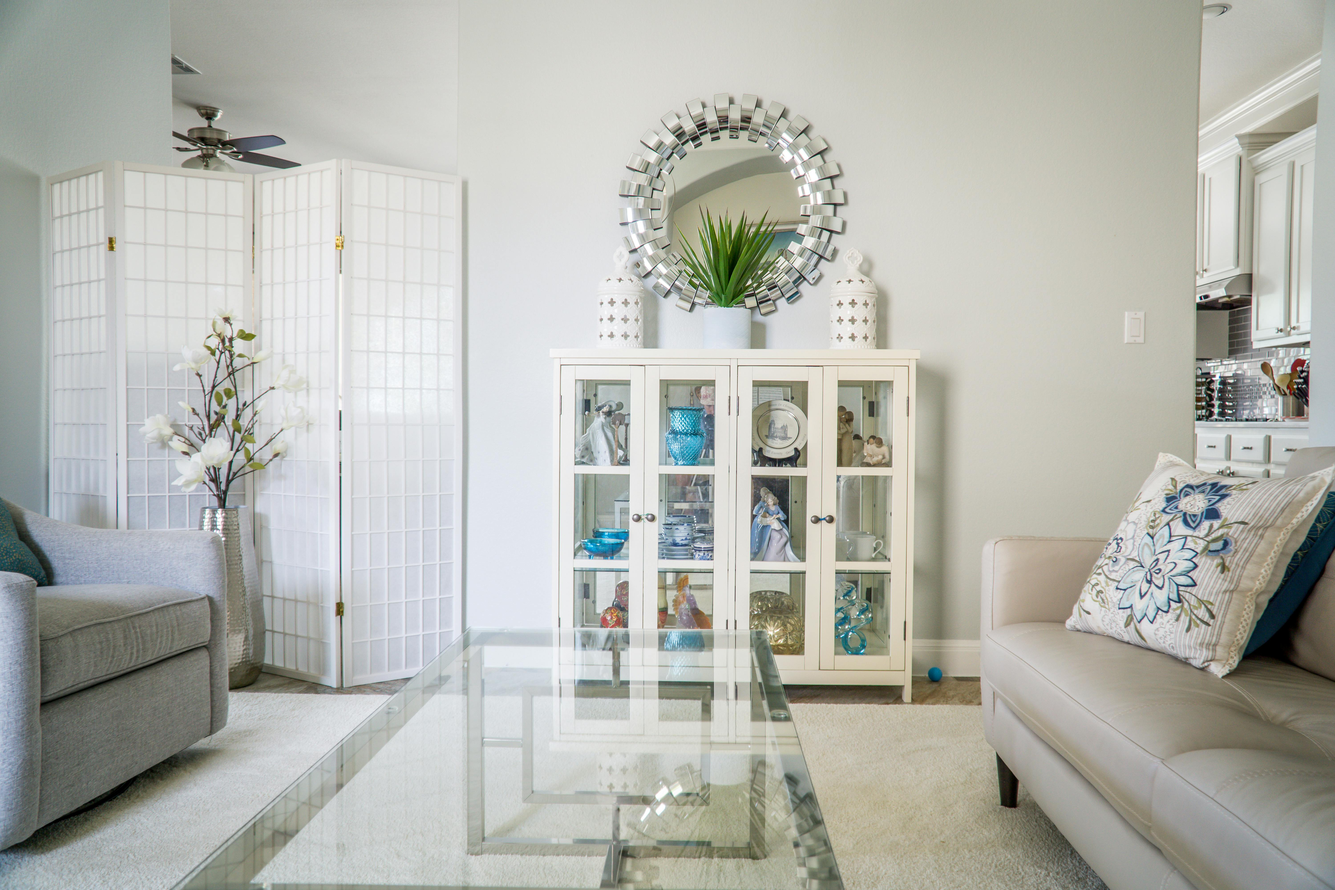
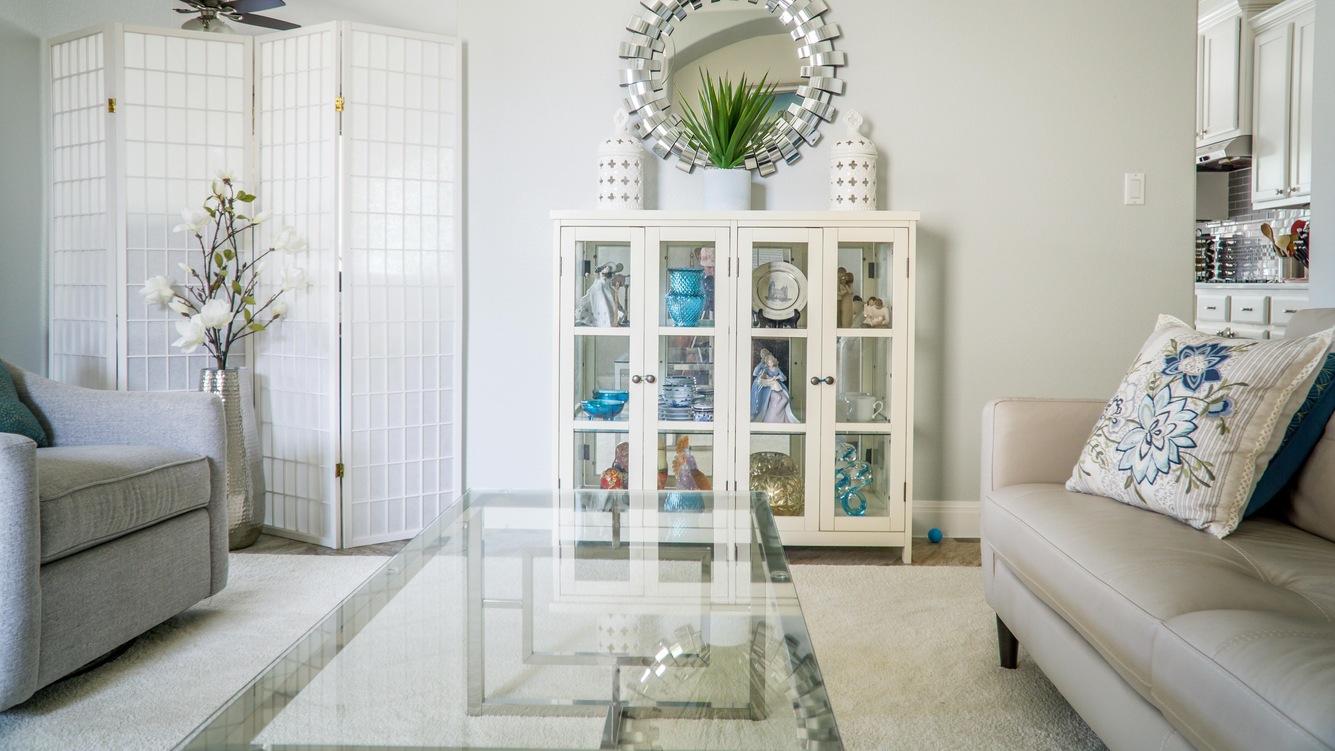
update

diff --git a/my-app/src/components/FeaturedSection.tsx b/my-app/src/components/FeaturedSection.tsx
@@ -45,7 +45,7 @@ const FeaturedProducts = [
 
 const FeaturedSection = () => {
   return (
-    <section className="px-4 md:px-8 py-10 md:py-16 bg-gray-50">
+    <section className="px-6 lg:px-8 py-16 bg-gray-50">
       {/* Section Heading */}
       <div className="mb-8 text-center">
         <h2 className="text-2xl md:text-4xl font-bold text-gray-900">
@@ -66,7 +66,7 @@ const FeaturedSection = () => {
               ? words.slice(0, 30).join(" ") + "..."
               : product.blogParagraph;
           return (
-            <div key={product.id}>
+            <div key={product.id} className="bg-gray-100">
               {/* Image Section with Amazon link */}
               <a
                 href={product.amazonLink}

diff --git a/my-app/src/components/BestSeller.tsx b/my-app/src/components/BestSeller.tsx
@@ -22,7 +22,7 @@ const BestSellerSection = ({ products }: BestSellerSectionProps) => {
   const handleNext = () => swiperRef.current?.slideNext();
 
   return (
-    <section className="mx-auto max-w-screen-xl py-12  px-4 sm:px-6 lg:px-8 relative">
+    <section className="mx-auto max-w-screen-xl py-12 px-6 lg:px-8 relative">
       <div className="text-center mb-8">
         <h2 className="text-2xl md:text-4xl font-bold text-gray-900">
           Best Sellers
